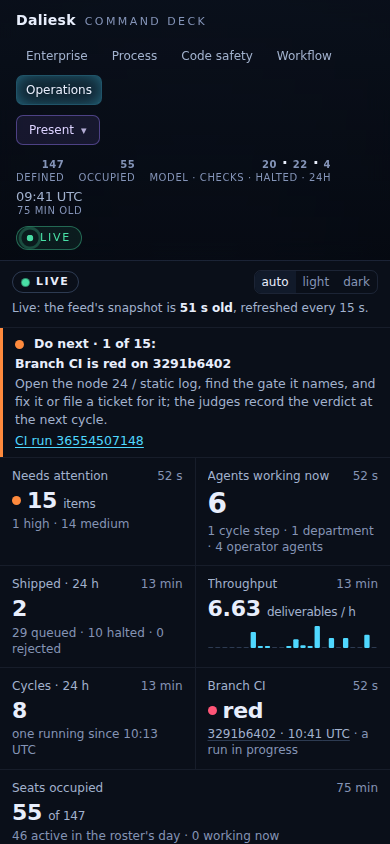
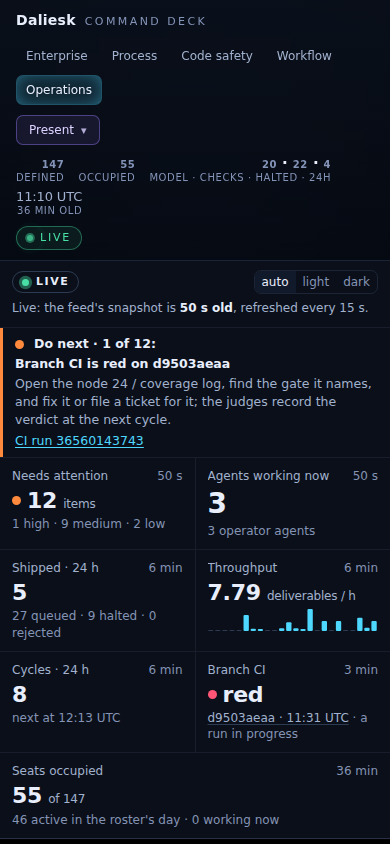
feat(ops): group a run of like attention items into one card; key the cycle matrix
Nine "ticket halted" cards buried the attention queue's one red item. The
panel now shows three or more items of one kind and severity as one
card, where the first of them ranks. The card gives their count, their
titles, the next action when they share one, and every item behind a
disclosure. The cycle matrix's heading carries a key to its cell states
(exit 0, exit ≠ 0, running, to come, not run). The README screenshots
show the current view.

Claude-Session: https://claude.ai/code/session_01HEXjzxR7CyMizem5kFAB4C

diff --git a/apps/command-deck/components/ops/OpsView.tsx b/apps/command-deck/components/ops/OpsView.tsx
@@ -2,8 +2,8 @@
 
 import dynamic from 'next/dynamic'
 import { useEffect, useMemo, useState, type ReactNode } from 'react'
-import type { OpsAgent, OpsAttention, OpsHeartbeat, OpsSnapshot, OpsSource, OpsSourceId, Roster, Severity } from '@/deck/contract'
-import { factsAsOf, formatAge, snapshotAge, STATION_NAME, STATIONS, stationCounts, type OpsReading } from '@/deck/ops'
+import type { OpsAgent, OpsAttention, OpsAttentionKind, OpsHeartbeat, OpsSnapshot, OpsSource, OpsSourceId, Roster, Severity } from '@/deck/contract'
+import { factsAsOf, formatAge, groupAttention, snapshotAge, STATION_NAME, STATIONS, stationCounts, type OpsReading } from '@/deck/ops'
 import { stopOps, useOps } from '@/deck/ops-store'
 import { divisionColor } from '@/deck/palette'
 import { REPOSITORY } from '@/deck/repository'
@@ -425,7 +425,9 @@ function Panel({ snapshot }: { snapshot: OpsSnapshot }): ReactNode {
             No red CI, halted or rejected ticket, failed step, stale scheduler, stuck agent, pressure or open request in this snapshot.
           </div>
         ) : null}
-        {snapshot.attention.map(item => <AttentionCard key={item.id} item={item} />)}
+        {groupAttention(snapshot.attention, ATTENTION_GROUP_MIN).map(entry => ('item' in entry
+          ? <AttentionCard key={entry.item.id} item={entry.item} />
+          : <AttentionGroup key={`${entry.kind}:${entry.severity}`} severity={entry.severity} kind={entry.kind} items={entry.items} />))}
       </section>
       <section className={styles.section} aria-label="Agents working now">
         <h2>Working now <small>{snapshot.agents.length} agents</small><FactsAge snapshot={snapshot} /></h2>
@@ -477,6 +479,62 @@ function Heartbeats({ snapshot }: { snapshot: OpsSnapshot }): ReactNode {
         ))}
       </div>
     </section>
+  )
+}
+
+/** The fewest items of one kind and severity the attention panel shows as one card. */
+const ATTENTION_GROUP_MIN = 3
+
+/** What a group of attention items of one kind is, counted. */
+const GROUP_NOUN: Record<OpsAttentionKind, string> = {
+  'ci-red': 'red Branch CI runs',
+  'ticket-halted': 'tickets halted',
+  'ticket-rejected': 'tickets rejected',
+  'cycle-step-failed': 'failed cycle steps',
+  'cycle-interrupted': 'interrupted cycles',
+  'scheduler-stale': 'stale scheduler reports',
+  'scheduler-down': 'scheduler reports',
+  'agent-stuck': 'stuck agents',
+  'shift-halted': 'halted shifts',
+  'shift-failed': 'failed shifts',
+  'shift-abandoned': 'abandoned shifts',
+  'heartbeat-down': 'loops down or late',
+  'disk-pressure': 'filesystems under pressure',
+  'memory-pressure': 'memory reports',
+  'owner-request': 'owner requests',
+  'source-unknown': 'unread sources',
+}
+
+/** What an attention group is drawn from. */
+interface AttentionGroupProps {
+  severity: Severity
+  kind: OpsAttentionKind
+  items: readonly OpsAttention[]
+}
+
+/**
+ * A run of attention items of one kind and severity as one card: the count,
+ * the items' titles, the shared next action when they share one, and every
+ * item in full behind a disclosure.
+ * @param props - The group's severity, kind and items.
+ * @returns The card.
+ */
+function AttentionGroup({ severity, kind, items }: AttentionGroupProps): ReactNode {
+  const next = items.every(item => item.next === items[0]?.next) ? items[0]?.next : undefined
+  const newest = items.map(item => item.at).filter((at): at is string => at !== undefined).sort().at(-1)
+  return (
+    <details className={`${styles.card} ${styles.item} ${styles.group}`} data-severity={severity}>
+      <summary>
+        <span className={styles.sev}>
+          <i className={styles.statusDot} data-tone={severity} />{SEVERITY_LABEL[severity]} · {items.length} items{newest === undefined ? '' : ` · newest ${newest.slice(11, 16)} UTC`}
+        </span>
+        <h3 className={styles.itemTitle}>{items.length} {GROUP_NOUN[kind]}</h3>
+        <p className={styles.itemDetail}>{items.map(item => item.title).join(' · ')}</p>
+        <p className={styles.next}><b>Next:</b> {next ?? 'each item names its own; open the list.'}</p>
+        <span className={styles.groupOpen}>Show all {items.length}</span>
+      </summary>
+      {items.map(item => <AttentionCard key={item.id} item={item} />)}
+    </details>
   )
 }
 

diff --git a/apps/command-deck/deck/ops.ts b/apps/command-deck/deck/ops.ts
@@ -14,7 +14,16 @@
  * than the snapshot's own `generatedAt` states.
  */
 
-import { OPS_SCHEMA, type OpsAgentKind, type OpsShiftStage, type OpsShiftTicket, type OpsSnapshot, type OpsSourceId, type RunEvent } from './contract.ts'
+import {
+  OPS_SCHEMA,
+  type OpsAgentKind,
+  type OpsAttention,
+  type OpsShiftStage,
+  type OpsShiftTicket,
+  type OpsSnapshot,
+  type OpsSourceId,
+  type RunEvent,
+} from './contract.ts'
 import { FIXTURE_BASE, feedUrl } from './feed.ts'
 import { hostlessJson } from './host-paths.ts'
 
@@ -346,4 +355,40 @@ export function trackReached(ticket: OpsShiftTicket): number {
   if (ticket.stage === 'shipped') return SHIFT_TRACK.length
   const stage = ticket.stage === 'halted' || ticket.stage === 'rejected' ? ticket.reached ?? 'working' : ticket.stage
   return SHIFT_TRACK.indexOf(stage) + 1
+}
+
+/** One entry of the attention panel: an item on its own, or a run of items of one kind and severity shown as one card. */
+export type AttentionEntry =
+  | { item: OpsAttention }
+  | { kind: OpsAttention['kind']; severity: OpsAttention['severity']; items: OpsAttention[] }
+
+/**
+ * Group the ranked attention queue for the panel: the items of one kind and
+ * one severity become one entry when there are at least `min` of them, placed
+ * where the first of them ranks; every other item stays on its own.
+ * @param items - The queue, ranked.
+ * @param min - The fewest items of one kind and severity that form a group.
+ * @returns The entries, in rank order.
+ */
+export function groupAttention(items: readonly OpsAttention[], min: number): AttentionEntry[] {
+  const key = (item: OpsAttention): string => `${item.kind}:${item.severity}`
+  const sizes = new Map<string, number>()
+  for (const item of items) sizes.set(key(item), (sizes.get(key(item)) ?? 0) + 1)
+  const groups = new Map<string, Extract<AttentionEntry, { items: OpsAttention[] }>>()
+  const entries: AttentionEntry[] = []
+  for (const item of items) {
+    if ((sizes.get(key(item)) ?? 0) < min) {
+      entries.push({ item })
+      continue
+    }
+    const known = groups.get(key(item))
+    if (known !== undefined) {
+      known.items.push(item)
+      continue
+    }
+    const group = { kind: item.kind, severity: item.severity, items: [item] }
+    groups.set(key(item), group)
+    entries.push(group)
+  }
+  return entries
 }

diff --git a/apps/command-deck/tests/ops.spec.ts b/apps/command-deck/tests/ops.spec.ts
@@ -1,9 +1,9 @@
 import { describe, expect, it } from 'vitest'
 
-import type { OpsAgent, OpsSnapshot, RunEvent } from '../deck/contract.ts'
+import type { OpsAgent, OpsAttention, OpsSnapshot, RunEvent } from '../deck/contract.ts'
 import { layoutOps, satellitePoint } from '../deck/layout-ops.ts'
 import {
-  chooseReading, countdown, cycleStation, factsAsOf, formatAge, isOpsSnapshot, ledgerStation, liveLimitMs,
+  chooseReading, countdown, cycleStation, factsAsOf, formatAge, groupAttention, isOpsSnapshot, ledgerStation, liveLimitMs,
   slotProgress, stationCounts, stationOf, trackReached,
 } from '../deck/ops.ts'
 import { liveDelayMs, placeFrame } from '../deck/ops-store.ts'
@@ -182,5 +182,26 @@ describe('the cycle clock and the shift track', () => {
     expect(trackReached({ ticket: 'T-0001', stage: 'halted', reached: 'integration' })).toBe(5)
     expect(trackReached({ ticket: 'T-0001', stage: 'rejected', reached: 'review' })).toBe(4)
     expect(trackReached({ ticket: 'T-0001', stage: 'halted' })).toBe(2)
+  })
+})
+
+describe('the attention panel', () => {
+  const item = (id: string, kind: OpsAttention['kind'], severity: OpsAttention['severity']): OpsAttention => ({ id, kind, severity, title: id, detail: '', evidence: [], next: 'n' })
+
+  it('shows a run of one kind and severity as one entry where its first item ranks, and leaves smaller runs alone', () => {
+    const ranked = [
+      item('ci', 'ci-red', 'high'),
+      item('t1', 'ticket-halted', 'medium'),
+      item('req', 'owner-request', 'medium'),
+      item('t2', 'ticket-halted', 'medium'),
+      item('t3', 'ticket-halted', 'medium'),
+      item('s1', 'cycle-step-failed', 'low'),
+      item('s2', 'cycle-step-failed', 'low'),
+    ]
+    const entries = groupAttention(ranked, 3)
+    expect(entries.map(entry => ('item' in entry ? entry.item.id : `${entry.kind}:${entry.items.map(grouped => grouped.id).join(',')}`))).toEqual([
+      'ci', 'ticket-halted:t1,t2,t3', 'req', 's1', 's2',
+    ])
+    expect(groupAttention(ranked, 2).map(entry => ('item' in entry ? entry.item.id : entry.kind))).toEqual(['ci', 'ticket-halted', 'req', 'cycle-step-failed'])
   })
 })

diff --git a/apps/command-deck/components/ops/ops.module.css b/apps/command-deck/components/ops/ops.module.css
@@ -425,6 +425,14 @@
 .item[data-severity='medium'] { border-left-color: var(--o-medium); }
 .item[data-severity='low'] { border-left-color: var(--o-low); }
 
+/* A run of items of one kind: one card, its items behind a disclosure. */
+.group summary { list-style: none; cursor: pointer; }
+.group summary::-webkit-details-marker { display: none; }
+.group .itemDetail { display: -webkit-box; -webkit-line-clamp: 2; -webkit-box-orient: vertical; overflow: hidden; }
+.groupOpen { display: inline-block; margin-top: 5px; font-size: 12px; color: var(--o-accent); text-decoration: underline; text-underline-offset: 2px; }
+.group[open] .groupOpen { display: none; }
+.group[open] > .card { margin-top: 7px; box-shadow: none; }
+
 .sev {
   display: inline-flex;
   align-items: center;
@@ -622,11 +630,15 @@
   font-variant-numeric: tabular-nums;
   color: #fff;
 }
-.cell[data-state='ok'] { background: var(--o-ok); }
-.cell[data-state='failed'] { background: var(--o-failed); }
-.cell[data-state='running'] { background: var(--o-running); animation: breathe 1.4s ease-in-out infinite; }
-.cell[data-state='pending'] { border: 1px dashed var(--o-line-strong); }
-.cell[data-state='absent'] { background: var(--o-raised); }
+.keysCompact { gap: 8px; font-size: 11px; }
+.keysCompact span { gap: 4px; }
+.cellKey { display: inline-block; width: 10px; height: 10px; border-radius: 3px; }
+.cell[data-state='ok'], .cellKey[data-state='ok'] { background: var(--o-ok); }
+.cell[data-state='failed'], .cellKey[data-state='failed'] { background: var(--o-failed); }
+.cell[data-state='running'], .cellKey[data-state='running'] { background: var(--o-running); }
+.cell[data-state='running'] { animation: breathe 1.4s ease-in-out infinite; }
+.cell[data-state='pending'], .cellKey[data-state='pending'] { border: 1px dashed var(--o-line-strong); }
+.cell[data-state='absent'], .cellKey[data-state='absent'] { background: var(--o-raised); }
 
 .tickets { display: flex; flex-direction: column; gap: 8px; }
 .ticket { display: flex; flex-direction: column; gap: 4px; }

diff --git a/apps/command-deck/components/ops/Mission.tsx b/apps/command-deck/components/ops/Mission.tsx
@@ -161,6 +161,15 @@ function stepColumns(cycles: readonly OpsCycle[]): string[] {
   return columns
 }
 
+/** The matrix's cell states and what each means, for its key. */
+const CELL_KEYS: readonly (readonly [OpsCycleStep['state'] | 'absent', string])[] = [
+  ['ok', 'exit 0'],
+  ['failed', 'exit ≠ 0'],
+  ['running', 'running'],
+  ['pending', 'to come'],
+  ['absent', 'not run'],
+]
+
 /** The window's cycles, newest first, one row each with every step's exit status, under the scheduler's next slot. */
 function CycleTimeline({ snapshot }: { snapshot: OpsSnapshot }): ReactNode {
   const now = useNow()
@@ -177,6 +186,9 @@ function CycleTimeline({ snapshot }: { snapshot: OpsSnapshot }): ReactNode {
         <h2>Cycles · 24 h</h2>
         <p>{cycles === null || cycles === undefined ? 'unknown' : `${cycles.length} cycles · ${clean} clean · ${failed} failed`}</p>
         <Age at={factsAsOf(snapshot, ['cycle-logs', 'scheduler'])} />
+        <div className={`${styles.keys} ${styles.keysCompact}`} aria-label="Cell states">
+          {CELL_KEYS.map(([state, words]) => <span key={state}><i className={styles.cellKey} data-state={state} />{words}</span>)}
+        </div>
       </div>
       {cycles === null || cycles === undefined ? (
         <div className={styles.empty}>Neither the cycle logs nor the branch history could be read.</div>

diff --git a/apps/command-deck/README.zh.md b/apps/command-deck/README.zh.md
@@ -74,7 +74,7 @@ pnpm --dir apps/command-deck fixtures
 `/ops`（按键 `5`）是企业的运营中心，它只依据一份运营快照绘制（[`scripts/enterprise-ops.ts`](../../scripts/enterprise-ops.ts)，在 [`deck/contract.ts`](deck/contract.ts) 中定义为 `OpsSnapshot`），别无其他来源。它同时服务三类读者：
 
 - **速览。** 顶部的横条先说明视图是否为实时，然后依次统计：需要处理的事项及其最高严重程度、此刻按类别划分的正在工作的 agent（智能体）、24 小时内交付的工单及队列状况、每小时的交付物数量及 24 小时柱状小图、当天的周期与下一个周期、Branch CI 最新的结论，以及已占用的席位。
-- **给运营者。** 场景旁边的面板是关注队列，最严重的排在最前：列出失败作业的红色 Branch CI、失败或中断的周期步骤、陈旧或已停止的调度器、卡住的 agent（仍在运行、二十分钟没有事件的 agent：转录以其最终报告结束的 agent 已经完成，班次克隆分支中的已提交记录是历史而不是 agent）、自上一个有交付的班次以来其记录显示因用量上限而暂停或一无交付的班次、没有留下记录就被放弃的班次（没有进程，且三十分钟没有动静）、已停止或迟到的转录捕获与运营循环、磁盘与内存压力、被暂停和被拒绝的工单，以及所有者未结的请求，每一项都带有证据链接和下一步行动；链接打开 GitHub 上已提交的记录，或者点名保存在企业机器上的记录（周期按其 id），快照不携带那台机器的任何路径。队列的第一项也以“Do next”横贯顶部横条，附其下一步行动与证据链接。队列上方是周期调度器、转录捕获（附其最近一次推送及提交）与运营循环的心跳，各自标明存活、迟到或停止以及最近一次运行；其下依次是此刻正在工作的 agent（各自在做什么、已运行多久、用了多少 token）；各分部的席位；最新交付的工单，各自附其提交以及 `pnpm run enterprise:verdicts` 给出的 Branch CI 结论；以及快照读取过的每个来源，读不到的来源附有原因。大厅下方的周期矩阵在调度器的下一个时段之下，当天每个周期一行、每个步骤一列，每个单元格表示该步骤的状态，失败的单元格印出退出码。它旁边的班次看板显示正在运行的班次，没有时显示最新的班次，每个工单一条轨道，从排队经过工作中、已认证、审查与集成直到交付，点亮到它所处的阶段，并标出未交付工单停下的位置。
+- **给运营者。** 场景旁边的面板是关注队列，最严重的排在最前：列出失败作业的红色 Branch CI、失败或中断的周期步骤、陈旧或已停止的调度器、卡住的 agent（仍在运行、二十分钟没有事件的 agent：转录以其最终报告结束的 agent 已经完成，班次克隆分支中的已提交记录是历史而不是 agent）、自上一个有交付的班次以来其记录显示因用量上限而暂停或一无交付的班次、没有留下记录就被放弃的班次（没有进程，且三十分钟没有动静）、已停止或迟到的转录捕获与运营循环、磁盘与内存压力、被暂停和被拒绝的工单，以及所有者未结的请求，每一项都带有证据链接和下一步行动；链接打开 GitHub 上已提交的记录，或者点名保存在企业机器上的记录（周期按其 id），快照不携带那台机器的任何路径。同一类别、同一严重程度的三项及以上合并为一张卡片，列出全部条目，展开后显示每一项。队列的第一项也以“Do next”横贯顶部横条，附其下一步行动与证据链接。队列上方是周期调度器、转录捕获（附其最近一次推送及提交）与运营循环的心跳，各自标明存活、迟到或停止以及最近一次运行；其下依次是此刻正在工作的 agent（各自在做什么、已运行多久、用了多少 token）；各分部的席位；最新交付的工单，各自附其提交以及 `pnpm run enterprise:verdicts` 给出的 Branch CI 结论；以及快照读取过的每个来源，读不到的来源附有原因。大厅下方的周期矩阵在调度器的下一个时段之下，当天每个周期一行、每个步骤一列，每个单元格表示该步骤的状态，失败的单元格印出退出码。它旁边的班次看板显示正在运行的班次，没有时显示最新的班次，每个工单一条轨道，从排队经过工作中、已认证、审查与集成直到交付，点亮到它所处的阶段，并标出未交付工单停下的位置。
 - **用于演示。** 场景是运营大厅：全部 147 个席位排成一个圆环，每个分部是一段带其颜色的圆弧，没有被占用的席位暗淡，被占用时点亮，在花名册当天活跃时全亮；流水线的五道门——受理、班次、审查、CI、交付——横穿圆环；每个正在工作的 agent 从它的席位到它所在的门拉出一道光束，卡住时变为红色虚线；运营者自己的 agent 是在上方环绕的紫色光点；每一次工具调用或步骤都有一颗彗星从席位飞向它的门，每一张证书和每一次合并都在门上激起一道金色光环。大厅上的调度器时钟在一圈从上一个周期开始逐渐填满的圆环中倒数到下一个周期，或者点出正在运行的周期所处的步骤。镜头缓慢环绕，观看者可以随时接管。`F` 隐藏面板、时间线以及大厅下方的横带。
 
 每张卡片和每个面板都按观看者的时钟说明其事实有多旧：采集器实时读取的内容（进程、日志、转录、主机）以快照自身的时间为准，账本、队列和记录以检出最近一次抓取分支的时间为准，花名册以它自己的 `generatedAt` 为准，Branch CI 以缓存的那次读取为准；面板所依据的来源读不到时，它说明其时长未知。顶部横条和各分部中的席位计数与页头的计数读自同一份花名册，并带有该花名册的时间戳，因此两者从不矛盾；在指挥台读到花名册之前，暂以快照自己对花名册的读取代替。

diff --git a/apps/command-deck/README.md b/apps/command-deck/README.md
@@ -74,7 +74,7 @@ While a review runs, every file a department opens flares on its own building in
 `/ops` (key `5`) is the enterprise's operations center, drawn from one operations snapshot ([`scripts/enterprise-ops.ts`](../../scripts/enterprise-ops.ts), typed as `OpsSnapshot` in [`deck/contract.ts`](deck/contract.ts)) and nothing else. It serves three readers at once:
 
 - **At a glance.** The strip across the top says whether the view is live, then counts what needs attention with its worst severity, the agents working now by kind, the tickets shipped in 24 hours beside the queue, deliverables per hour with a 24-hour column spark, the cycles of the day and the next one, Branch CI's newest verdict and the seats occupied.
-- **For the operator.** The panel beside the scene is the attention queue, worst first: red Branch CI with its failing jobs, a failed or interrupted cycle step, a stale or stopped scheduler, a stuck agent (a running agent twenty minutes without an event: an agent whose transcript ends with its final report is finished, and the committed records in a shift's clone of the branch are history, not agents), a shift its record shows halted at a usage limit or shipping nothing since the last shift that shipped, a shift abandoned without a record (no process, silent thirty minutes), a transcript capture or operations loop that is down or late, disk and memory pressure, halted and rejected tickets and the owner's open requests, each with its evidence links and the next action; a link opens the committed record on GitHub, or names a record kept on the enterprise's machine, a cycle by its id, and no snapshot carries a path of that machine. The queue's first item also runs across the top strip as `Do next`, with its next action and evidence link. Above the queue are the heartbeats of the cycle scheduler, the transcript capture (with its newest push and commit) and the operations loop, each alive, late or down with its newest run; under it are the agents working now with what each is doing, how long it has run and its tokens; the divisions' seats; the newest shipped tickets, each with its commit and the Branch CI verdict `pnpm run enterprise:verdicts` gives it; and every source the snapshot read, with the reason for any it could not. Under the floor, the cycle matrix has one row per cycle of the day and one column per step, each cell the step's state and a failed cell its exit code, under the scheduler's next slot. Beside it, the shift board shows the running shift, else the newest, with each ticket's track from queued through working, certified, review and integration to ship, lit to its stage and marked where an unshipped ticket stopped.
+- **For the operator.** The panel beside the scene is the attention queue, worst first: red Branch CI with its failing jobs, a failed or interrupted cycle step, a stale or stopped scheduler, a stuck agent (a running agent twenty minutes without an event: an agent whose transcript ends with its final report is finished, and the committed records in a shift's clone of the branch are history, not agents), a shift its record shows halted at a usage limit or shipping nothing since the last shift that shipped, a shift abandoned without a record (no process, silent thirty minutes), a transcript capture or operations loop that is down or late, disk and memory pressure, halted and rejected tickets and the owner's open requests, each with its evidence links and the next action; a link opens the committed record on GitHub, or names a record kept on the enterprise's machine, a cycle by its id, and no snapshot carries a path of that machine. Three or more items of one kind and severity show as one card that names them all and opens to each. The queue's first item also runs across the top strip as `Do next`, with its next action and evidence link. Above the queue are the heartbeats of the cycle scheduler, the transcript capture (with its newest push and commit) and the operations loop, each alive, late or down with its newest run; under it are the agents working now with what each is doing, how long it has run and its tokens; the divisions' seats; the newest shipped tickets, each with its commit and the Branch CI verdict `pnpm run enterprise:verdicts` gives it; and every source the snapshot read, with the reason for any it could not. Under the floor, the cycle matrix has one row per cycle of the day and one column per step, each cell the step's state and a failed cell its exit code, under the scheduler's next slot. Beside it, the shift board shows the running shift, else the newest, with each ticket's track from queued through working, certified, review and integration to ship, lit to its stage and marked where an unshipped ticket stopped.
 - **For a demonstration.** The scene is the operations floor: all 147 seats on one ring, each division an arc in its colour, dim for a seat nothing occupied, lit when occupied and full when active in the roster's day; the pipeline's five gates, intake, shift, review, CI and ship, across the ring; a beam from every working agent's seat to the gate it works at, dashed red when it is stuck; the operator's own agents as violet points circling above; a comet from a seat to its gate for every tool call or step, and a gold ring at a gate for every certificate and merge. The scheduler's clock on the floor counts down to the next cycle inside a ring filling from the last one, or names the step a running cycle is on. The camera orbits slowly and the viewer can take it over. `F` hides the panel, the timeline and the band under the floor.
 
 Every tile and panel states how old its facts are, by the viewer's clock: the snapshot's own time for what the collector reads live (processes, logs, transcripts, the host), the checkout's newest fetch of the branch for the ledger, the queue and the records, the roster's own `generatedAt`, and Branch CI's cached read; a panel over a source that could not be read says its age is unknown. The seat counts in the strip and the divisions are read from the same roster as the header's counts, with that roster's stamp, so the two never disagree; the snapshot's own reading of the roster stands in only until the deck has read one.

diff --git a/.agents/notes/implemented/architecture/2026-09-29-ops-cycles-and-shift-board.md b/.agents/notes/implemented/architecture/2026-09-29-ops-cycles-and-shift-board.md
@@ -22,7 +22,7 @@ The [Operations Center](2026-09-28-operations-center.md) showed what was working
 
 **The capture's push is read where it happens.** `parseCaptureLog` reads `transcripts-capture.log` for the newest `pushed <commit>` line and any newer round that did not push. The heartbeat carries `lastPush`, and the branch history is the fallback.
 
-**The view.** The top strip ends in a `Do next` line: the attention queue's first item with its next action and evidence link. The floor carries the scheduler's clock. Between cycles it counts down to the announced slot, inside a ring that fills from the newest cycle start. While a cycle runs it names the step and shows the progress through the steps. Under the floor, a cycle matrix has one row per cycle and one column per step. Each cell's colour gives the step's state, and a failed cell prints its exit code. Beside the matrix, the shift board draws each ticket's track, queued → working → certified → review → integration → ship, lit up to its stage and marked where an unshipped ticket stopped. The panel's shipped list is per ticket. At phone width the `Do next` line follows the mode badge, the clock sits under the floor, the matrix scrolls inside its panel, and the shell's seat counts wrap instead of widening the page. Running cells and the current stage pulse unless the viewer asks for reduced motion.
+**The view.** The top strip ends in a `Do next` line: the attention queue's first item with its next action and evidence link. The floor carries the scheduler's clock. Between cycles it counts down to the announced slot, inside a ring that fills from the newest cycle start. While a cycle runs it names the step and shows the progress through the steps. Under the floor, a cycle matrix has one row per cycle and one column per step. Each cell's colour gives the step's state, and a failed cell prints its exit code. Beside the matrix, the shift board draws each ticket's track, queued → working → certified → review → integration → ship, lit up to its stage and marked where an unshipped ticket stopped. The panel's shipped list is per ticket, and the attention queue shows three or more items of one kind and severity as one card that opens to each, so a run of halted tickets does not bury the one red item. The matrix carries a key to its cell states. At phone width the `Do next` line follows the mode badge, the clock sits under the floor, the matrix scrolls inside its panel, and the shell's seat counts wrap instead of widening the page. Running cells and the current stage pulse unless the viewer asks for reduced motion.
 
 ## Alternatives considered
 

diff --git a/.agents/notes/implemented/architecture/2026-09-29-ops-cycles-and-shift-board.zh.md b/.agents/notes/implemented/architecture/2026-09-29-ops-cycles-and-shift-board.zh.md
@@ -22,7 +22,7 @@ Status: implemented
 
 **捕获的推送在发生之处读取。** `parseCaptureLog` 从 `transcripts-capture.log` 读取最新的 `pushed <commit>` 行，以及此后任何没有推送的轮次。心跳携带 `lastPush`，分支历史作为后备。
 
-**视图。** 顶部横条以一行“Do next”结束：关注队列的第一项，附其下一步行动与证据链接。大厅上有调度器的时钟。两个周期之间，它倒数到已公布的时段，外圈从最近一次周期开始逐渐填满。周期运行时，它显示正在运行的步骤及步骤进度。大厅下方的周期矩阵每个周期一行、每个步骤一列。每个单元格的颜色表示该步骤的状态，失败的单元格印出退出码。矩阵旁边，班次看板为每个工单画出轨道：排队 → 工作中 → 已认证 → 审查 → 集成 → 交付，点亮到它所处的阶段，并标出未交付工单停下的位置。面板中的已交付列表按工单列出。在手机宽度下，“Do next”行紧跟模式标记，时钟位于大厅下方，矩阵在其面板内滚动，外壳的席位计数换行而不是撑宽页面。除非观看者要求减少动态效果，正在运行的单元格与当前阶段会脉动。
+**视图。** 顶部横条以一行“Do next”结束：关注队列的第一项，附其下一步行动与证据链接。大厅上有调度器的时钟。两个周期之间，它倒数到已公布的时段，外圈从最近一次周期开始逐渐填满。周期运行时，它显示正在运行的步骤及步骤进度。大厅下方的周期矩阵每个周期一行、每个步骤一列。每个单元格的颜色表示该步骤的状态，失败的单元格印出退出码。矩阵旁边，班次看板为每个工单画出轨道：排队 → 工作中 → 已认证 → 审查 → 集成 → 交付，点亮到它所处的阶段，并标出未交付工单停下的位置。面板中的已交付列表按工单列出；关注队列把同一类别、同一严重程度的三项及以上显示为一张可展开的卡片，这样一串被暂停的工单不会淹没唯一的红色条目。矩阵附有单元格状态的图例。在手机宽度下，“Do next”行紧跟模式标记，时钟位于大厅下方，矩阵在其面板内滚动，外壳的席位计数换行而不是撑宽页面。除非观看者要求减少动态效果，正在运行的单元格与当前阶段会脉动。
 
 ## Alternatives considered
 
